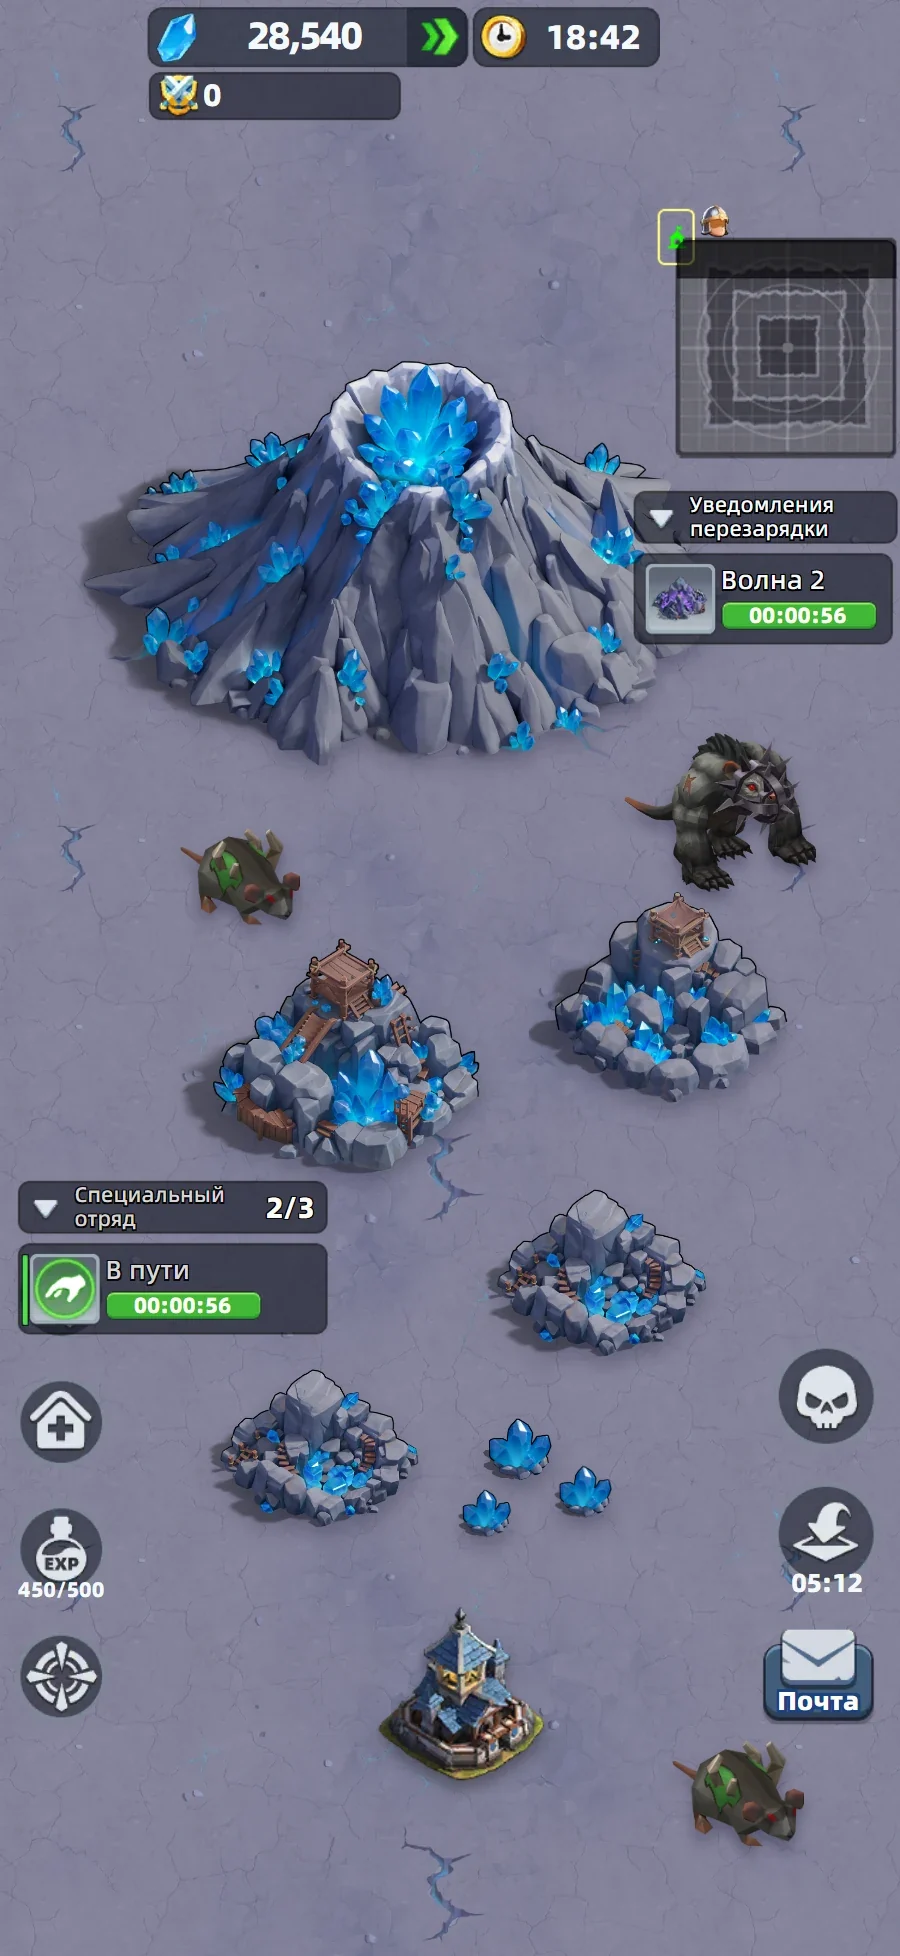
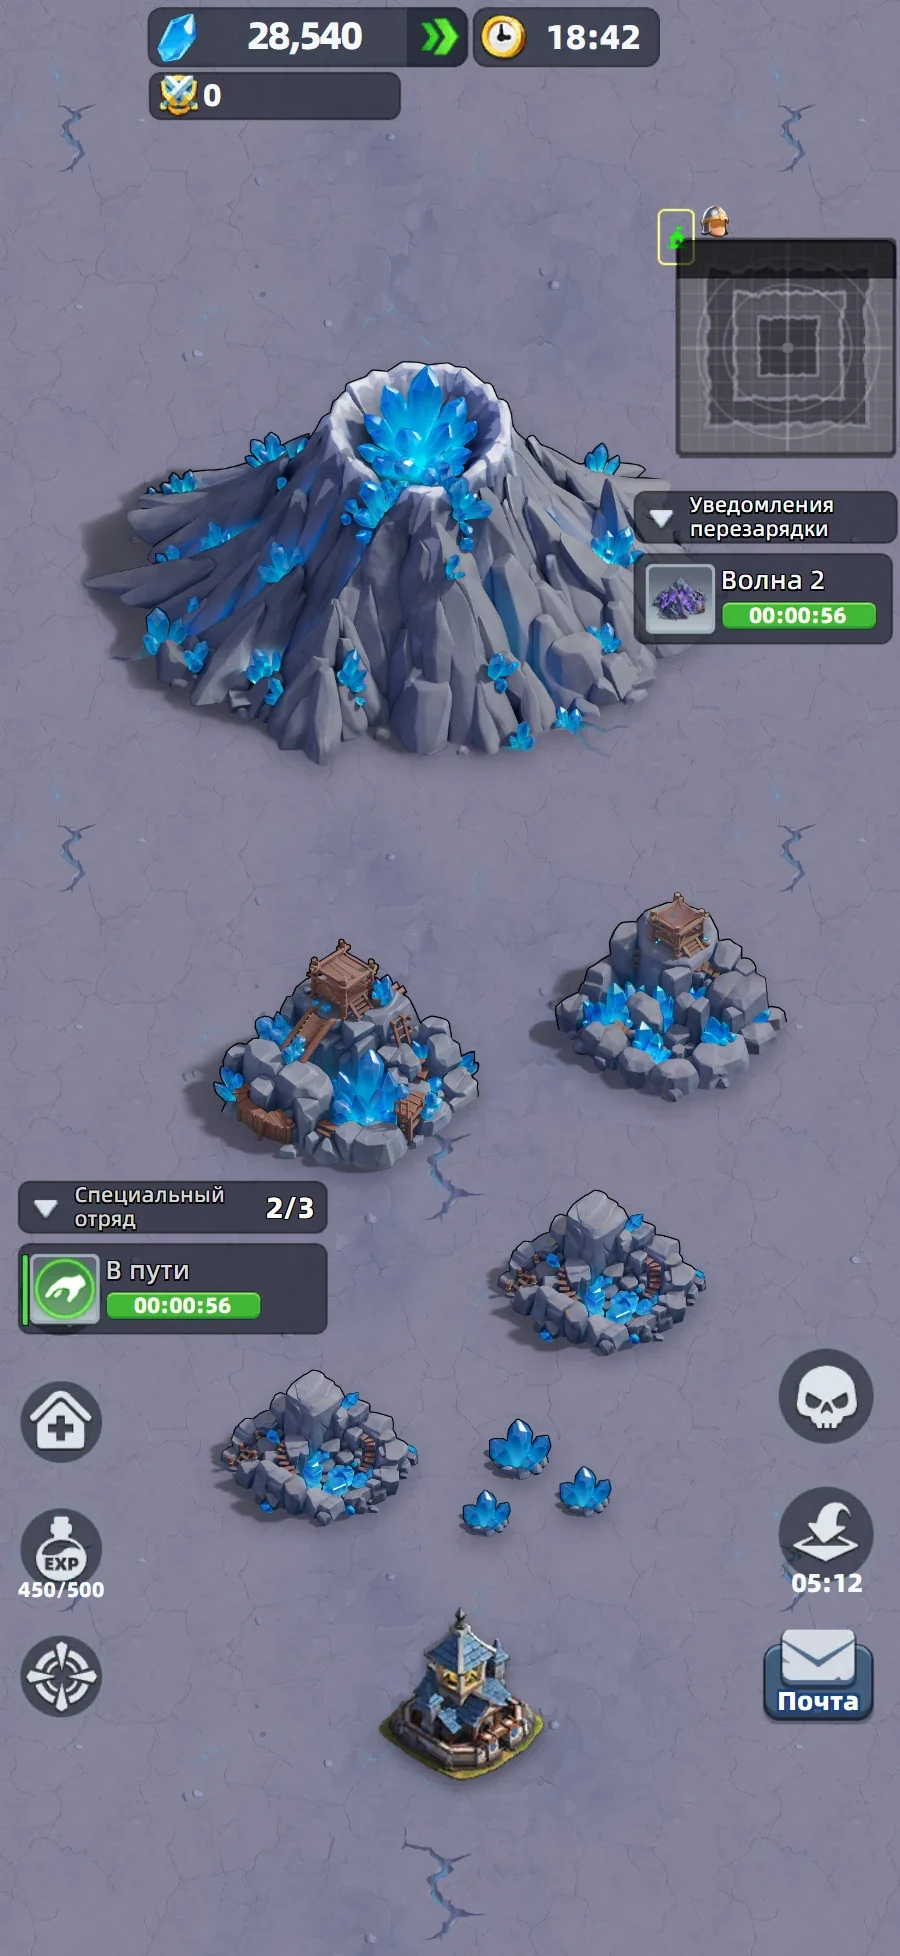
Долина: убраны неверные модели крыс (до подтверждения), в шаге 1 снова картинка из игрового руководства

Changed region(s): [[0.6844, 0.3742, 0.9022, 0.4678], [0.7467, 0.8732, 0.9022, 0.9668], [0.2178, 0.4054, 0.3422, 0.499]]

diff --git a/events.html b/events.html
@@ -428,7 +428,6 @@
       <div class="lg"><b>Часы рядом</b><span>сколько минут осталось до конца долины (всего 30).</span></div>
       <div class="lg"><b>Большая гора в центре — Священная пещера</b><span>первые 23 минуты под защитой, потом её захватывают все.</span></div>
       <div class="lg"><b>Каменные холмы с синими кристаллами — скопления 1–3 уровня</b><span>с деревянной вышкой — уровень выше, кристаллы идут быстрее.</span></div>
-      <div class="lg"><b>Крысы на карте — чумные крысы</b><span>два вида: большая в шипастом наморднике и маленькая. За них дают кристаллы навыков.</span></div>
       <div class="lg"><b>Маленькие кристаллы на земле — осколки</b><span>остаются, когда скопление отбили; подбирай.</span></div>
       <div class="lg"><b>Справа «Уведомления перезарядки»</b><span>когда появится следующая волна мгновенных скоплений и когда откроется пещера.</span></div>
       <div class="lg"><b>Слева «Специальный отряд»</b><span>твои отряды в пути и их таймеры.</span></div>
@@ -440,8 +439,8 @@
 
   <h3>Что делать — по шагам (картинки — из игрового «Руководства» долины)</h3>
   <div class="steps">
-    <div class="step" style="--shot-h:300px"><div class="shot"><img src="assets/shots/valley-rats.webp" alt="Два вида чумных крыс долины — модели из файлов игры" loading="lazy"></div>
-      <div class="body"><div class="num">ШАГ 1 · С ПЕРВОЙ МИНУТЫ</div><h3>Бей чумных крыс</h3><p>В долине живут два вида чумных крыс (на картинке — их модели из игры: большая в шипастом наморднике и маленькая с шипами). Найти их — крысы бродят по карте — нажми на крысу и атакуй. За каждую дают <b>кристаллы навыков</b> <img class="inl" src="assets/game/crystal-skill.png" alt="">, а на них учат навыки долины (ниже). Чем раньше выучишь навыки — тем быстрее пойдёт весь сбор.</p></div></div>
+    <div class="step" style="--shot-h:300px"><div class="shot"><img src="assets/shots/valley-g1.webp" alt="Чумная крыса долины" loading="lazy"></div>
+      <div class="body"><div class="num">ШАГ 1 · С ПЕРВОЙ МИНУТЫ</div><h3>Бей чумных крыс</h3><p>В долине живут два вида чумных крыс. Найти их — крысы бродят по карте — нажми на крысу и атакуй. За каждую дают <b>кристаллы навыков</b> <img class="inl" src="assets/game/crystal-skill.png" alt="">, а на них учат навыки долины (ниже). Чем раньше выучишь навыки — тем быстрее пойдёт весь сбор.</p></div></div>
     <div class="step" style="--shot-h:300px"><div class="shot"><img src="assets/shots/valley-g2.webp" alt="Кристальные скопления 1–3 уровня и кнопки «Разведка» и «Атака»" loading="lazy"><span class="ring rect" style="left:34.8%;top:81.3%;width:16%;aspect-ratio:1"></span><span class="ring rect" style="left:62.4%;top:81.3%;width:16%;aspect-ratio:1"></span></div>
       <div class="body"><div class="num">ШАГ 2</div><h3>Займи кристальное скопление</h3><p>Нажми на скопление — появятся две кнопки (рамки): <b>разведка</b> (подзорная труба) и <b>атака</b> (мечи). Свободное скопление охраняют защитники — разбей их, и отряд начнёт собирать. Скопления 1–3 уровня: чем выше, тем быстрее очищаются кристаллы.</p><p>Скопление, которое собирает другой игрок (даже соратник), можно отбить — его кристаллы рассыплются осколками вокруг.</p></div></div>
     <div class="step" style="--shot-h:300px"><div class="shot"><img src="assets/shots/valley-g5.webp" alt="Мгновенные скопления кристаллов" loading="lazy"></div>

diff --git a/src/events.html b/src/events.html
@@ -393,7 +393,6 @@
       <div class="lg"><b>Часы рядом</b><span>сколько минут осталось до конца долины (всего 30).</span></div>
       <div class="lg"><b>Большая гора в центре — Священная пещера</b><span>первые 23 минуты под защитой, потом её захватывают все.</span></div>
       <div class="lg"><b>Каменные холмы с синими кристаллами — скопления 1–3 уровня</b><span>с деревянной вышкой — уровень выше, кристаллы идут быстрее.</span></div>
-      <div class="lg"><b>Крысы на карте — чумные крысы</b><span>два вида: большая в шипастом наморднике и маленькая. За них дают кристаллы навыков.</span></div>
       <div class="lg"><b>Маленькие кристаллы на земле — осколки</b><span>остаются, когда скопление отбили; подбирай.</span></div>
       <div class="lg"><b>Справа «Уведомления перезарядки»</b><span>когда появится следующая волна мгновенных скоплений и когда откроется пещера.</span></div>
       <div class="lg"><b>Слева «Специальный отряд»</b><span>твои отряды в пути и их таймеры.</span></div>
@@ -405,8 +404,8 @@
 
   <h3>Что делать — по шагам (картинки — из игрового «Руководства» долины)</h3>
   <div class="steps">
-    <div class="step" style="--shot-h:300px"><div class="shot"><img src="assets/shots/valley-rats.webp" alt="Два вида чумных крыс долины — модели из файлов игры" loading="lazy"></div>
-      <div class="body"><div class="num">ШАГ 1 · С ПЕРВОЙ МИНУТЫ</div><h3>Бей чумных крыс</h3><p>В долине живут два вида чумных крыс (на картинке — их модели из игры: большая в шипастом наморднике и маленькая с шипами). Найти их — крысы бродят по карте — нажми на крысу и атакуй. За каждую дают <b>кристаллы навыков</b> <img class="inl" src="assets/game/crystal-skill.png" alt="">, а на них учат навыки долины (ниже). Чем раньше выучишь навыки — тем быстрее пойдёт весь сбор.</p></div></div>
+    <div class="step" style="--shot-h:300px"><div class="shot"><img src="assets/shots/valley-g1.webp" alt="Чумная крыса долины" loading="lazy"></div>
+      <div class="body"><div class="num">ШАГ 1 · С ПЕРВОЙ МИНУТЫ</div><h3>Бей чумных крыс</h3><p>В долине живут два вида чумных крыс. Найти их — крысы бродят по карте — нажми на крысу и атакуй. За каждую дают <b>кристаллы навыков</b> <img class="inl" src="assets/game/crystal-skill.png" alt="">, а на них учат навыки долины (ниже). Чем раньше выучишь навыки — тем быстрее пойдёт весь сбор.</p></div></div>
     <div class="step" style="--shot-h:300px"><div class="shot"><img src="assets/shots/valley-g2.webp" alt="Кристальные скопления 1–3 уровня и кнопки «Разведка» и «Атака»" loading="lazy"><span class="ring rect" style="left:34.8%;top:81.3%;width:16%;aspect-ratio:1"></span><span class="ring rect" style="left:62.4%;top:81.3%;width:16%;aspect-ratio:1"></span></div>
       <div class="body"><div class="num">ШАГ 2</div><h3>Займи кристальное скопление</h3><p>Нажми на скопление — появятся две кнопки (рамки): <b>разведка</b> (подзорная труба) и <b>атака</b> (мечи). Свободное скопление охраняют защитники — разбей их, и отряд начнёт собирать. Скопления 1–3 уровня: чем выше, тем быстрее очищаются кристаллы.</p><p>Скопление, которое собирает другой игрок (даже соратник), можно отбить — его кристаллы рассыплются осколками вокруг.</p></div></div>
     <div class="step" style="--shot-h:300px"><div class="shot"><img src="assets/shots/valley-g5.webp" alt="Мгновенные скопления кристаллов" loading="lazy"></div>
